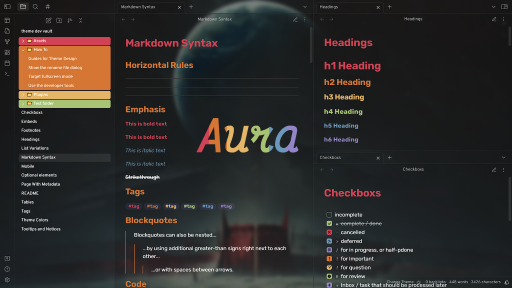
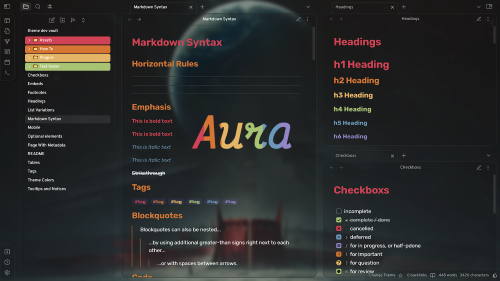
v1.5.0 - Added Alternate Layout and Customized the screenshots

diff --git a/theme.css b/theme.css
@@ -46,27 +46,20 @@ settings:
             label: Purple
             value: color-purple
    - 
-      id: background-primary
+      id: bg-primary
       title: Primary Background
       type: variable-color
       opacity: false
-      format: hex
-      alt-format:
-         -
-            id: accent-rgb
-            format: rgb
-      default: '#121212'
+      format: rgb-values
+      default: 'rgb(18, 18, 18)'
    - 
-      id: background-secondary
+      id: bg-secondary
       title: Secondary Background
       type: variable-color
       opacity: false
-      format: hex
-      alt-format:
-         -
-            id: accent-rgb
-            format: rgb
-      default: '#0f0f10'
+      format: rgb-values
+      default: 'rgb(15, 15, 16)'
+   - 
 
    - 
       id: aura-text
@@ -168,6 +161,71 @@ settings:
       max: 1
       step: 0.05
       default: 0.7
+   - 
+      id: aura-layout-heading
+      title: Layout
+      type: heading
+      level: 4
+      collapsed: true
+   - 
+      id: aura-layout-select
+      title: Layout Style
+      type: class-select
+      allowEmpty: false
+      default: aura-default-layout
+      options:
+         -
+            label: Default
+            value: aura-default-layout
+         -
+            label: Cards
+            value: aura-card-layout
+   - 
+      id: aura-disable-borders
+      title: Disable borders
+      type: class-toggle
+   -
+      id: tab-outline-color
+      title: Custom borders Color
+      type: variable-themed-color
+      opacity: true
+      format: hex
+      default-light: '#'
+      default-dark: '#'
+   - 
+      id: aura-card-radius
+      title: Card radius
+      description: Size unit is px
+      type: variable-number
+      default: 16
+      format: px
+   - 
+      id: aura-card-layout-padding
+      title: Card padding
+      description: Size unit is px
+      type: variable-number
+      default: 10
+      format: px
+   - 
+      id: aura-card-header-left-padding
+      title: Tab left padding
+      description: Size unit is px
+      type: variable-number
+      default: 20
+      format: px
+   - 
+      id: aura-card-shadows
+      title: Enable shadows for cards
+      type: class-toggle
+   - 
+      id: aura-card-layout-actions
+      title: Enable card format for left ribbon
+      type: class-toggle
+   - 
+      id: aura-card-layout-fileexplorer
+      title: Enable card format for file explorer
+      default: true
+      type: class-toggle
    - 
       id: aura-sidebar
       title: Sidebar
@@ -1186,4 +1244,227 @@ body {
 
 .aura-workspace-background .suggestion-container {
 	--background-primary: rgba(var(--bg-primary), 0.922);
+}
+
+/* 
+==============================================================================
+========================= CARD LAYOUT ==============================
+==============================================================================
+*/
+.horizontal-main-container,
+.aura-card-layout .mod-left-split,
+.aura-card-layout .mod-left-split .workspace-tabs .workspace-leaf,
+.aura-card-layout .mod-right-split .workspace-tabs .workspace-leaf,
+.aura-card-layout .mod-root .workspace-tabs .workspace-leaf,
+.aura-card-layout .mod-vertical,
+.aura-card-layout .mod-vertical .workspace-tab-container,
+.aura-card-layout .mod-vertical .workspace-tabs,
+.aura-card-layout
+	.workspace-fake-target-overlay:not(.is-in-sidebar)
+	.workspace-tabs
+	.workspace-leaf,
+.aura-card-layout .workspace-split.mod-vertical,
+.workspace {
+	background-color: var(--tab-container-background);
+}
+
+.workspace-split:not(.mod-root) .graph-controls,
+.workspace-split:not(.mod-root) .graph-controls.is-close,
+.workspace-split:not(.mod-root) .graph-controls:not(.is-close) {
+	background-color: rgb(var(--exterior));
+}
+
+.aura-card-layout .workspace-split:not(.mod-root) .graph-controls,
+.aura-card-layout .workspace-split:not(.mod-root) .graph-controls.is-close,
+.aura-card-layout
+	.workspace-split:not(.mod-root)
+	.graph-controls:not(.is-close),
+.workspace-leaf .graph-controls,
+.workspace-leaf .graph-controls.is-close,
+.workspace-leaf .graph-controls:not(.is-close) {
+	background-color: rgb(var(--side));
+}
+
+body {
+	--card-background-color: rgb(var(--exterior));
+	--card-foreground-color: var(--background-primary);
+}
+
+.aura-card-layout .sidebar-toggle-button,
+.aura-card-layout .workspace-tabs.mod-top,
+body.aura-card-layout {
+	--tab-container-background: var(--card-background-color);
+	--file-header-border: var(--border-width) dotted
+		var(--background-modifier-border);
+}
+
+body.is-focused.aura-card-layout,
+body.is-focused.aura-card-layout .sidebar-toggle-button,
+body.is-focused.aura-card-layout .workspace-tabs.mod-top {
+	--tab-container-background: var(--card-background-color);
+}
+
+.aura-card-layout .mod-left-split .workspace-tab-header-container,
+.aura-card-layout .workspace-tab-header-container {
+	border-bottom: none;
+}
+
+.aura-card-layout .workspace-ribbon.mod-left {
+	padding: 0;
+	background-color: var(--tab-container-background);
+	border: none;
+}
+
+.aura-card-layout-actions.aura-card-layout .workspace-ribbon.mod-left {
+	margin-right: var(--aura-card-layout-padding, 10px);
+}
+
+.aura-card-layout .workspace-ribbon.mod-left:before {
+	border-bottom: none;
+	background-color: var(--tab-container-background) !important;
+}
+
+.aura-card-layout .side-dock-actions,
+.aura-card-layout .side-dock-settings {
+	padding: var(--ribbon-padding);
+}
+
+.aura-card-layout-actions.aura-card-layout .side-dock-actions {
+	border-radius: 0 var(--aura-card-radius, var(--radius-xl))
+		var(--aura-card-radius, var(--radius-xl)) 0;
+	border: 1px solid var(--tab-outline-color);
+	background-color: var(--card-foreground-color);
+	margin-top: 2px;
+}
+
+.aura-card-layout-actions.aura-card-layout .side-dock-settings {
+	border-radius: 0 var(--aura-card-radius, var(--radius-xl)) 0 0;
+	border: 1px solid var(--tab-outline-color);
+	background-color: var(--card-foreground-color);
+}
+
+.aura-card-layout .workspace-ribbon.mod-left {
+	margin-top: calc(var(--header-height) - 1px) !important;
+}
+
+.aura-card-layout .mod-vertical .workspace-tab-header-container {
+	padding-left: var(--aura-card-header-left-padding, 20px);
+}
+
+.aura-card-layout .mod-vertical .workspace-tab-header-container-inner {
+	margin: 6px -5px calc(var(--tab-outline-width) * -1);
+	z-index: 1;
+}
+
+.aura-card-layout .mod-vertical .workspace-tabs {
+	padding-left: var(--aura-card-layout-padding, 10px);
+	padding-right: var(--aura-card-layout-padding, 10px);
+}
+
+.aura-card-layout .mod-left-split .workspace-tab-container,
+.aura-card-layout .mod-right-split .workspace-tab-container {
+	padding-left: var(--aura-card-layout-padding, 10px);
+	padding-right: var(--aura-card-layout-padding, 10px);
+	background-color: var(--tab-container-background);
+}
+
+.aura-card-layout
+	.workspace-split.mod-horizontal
+	> *
+	> .workspace-leaf-resize-handle,
+.aura-card-layout
+	.workspace-split.mod-left-split
+	> .workspace-leaf-resize-handle,
+.aura-card-layout
+	.workspace-split.mod-right-split
+	> .workspace-leaf-resize-handle {
+	border: 2px solid transparent;
+}
+
+.aura-card-layout .workspace-split .workspace-leaf-content {
+	border-radius: var(--aura-card-radius, var(--radius-xl));
+	background-color: var(--card-foreground-color);
+	border: 1px solid var(--tab-outline-color);
+	margin-bottom: var(--aura-card-layout-padding, 10px);
+}
+
+.aura-card-layout.aura-card-shadows .side-dock-actions,
+.aura-card-layout.aura-card-shadows .workspace-split .workspace-leaf-content,
+.aura-card-layout.aura-card-shadows.aura-card-layout-fileexplorer
+	.workspace-split
+	.workspace-leaf-content[data-type="file-explorer"] {
+	box-shadow: 0 3px 4px 0 rgba(0, 0, 0, 0.05);
+}
+
+.aura-card-layout
+	.workspace-split
+	.workspace-leaf-content[data-type="file-explorer"] {
+	background-color: var(--tab-container-background);
+	box-shadow: none;
+	border-width: 0;
+}
+
+.aura-card-layout.aura-card-layout-fileexplorer
+	.workspace-split
+	.workspace-leaf-content[data-type="file-explorer"] {
+	background-color: var(--card-foreground-color);
+	border-width: 1px;
+}
+
+.aura-card-layout .workspace-split .mod-stacked .workspace-leaf-content {
+	border-radius: 0;
+	border: none;
+	margin-bottom: 0;
+	border-left: none;
+}
+
+.aura-card-layout .workspace-split.mod-horizontal > * {
+	width: unset;
+}
+
+.aura-card-layout .mod-stacked .workspace-tab-header {
+	border-style: solid;
+	border-radius: var(--aura-card-radius, var(--radius-xl)) 0 0
+		var(--aura-card-radius, var(--radius-xl)) !important;
+	border-width: var(--tab-outline-width);
+	border-color: var(--tab-outline-color);
+	border-right: var(--tab-outline-width) dashed var(--tab-outline-color);
+}
+
+.aura-card-layout .mod-stacked .workspace-leaf {
+	border-left-width: 0;
+	border-top-width: var(--tab-outline-width);
+	border-bottom-width: var(--tab-outline-width);
+	border-style: solid;
+	border-color: var(--tab-outline-color);
+	border-radius: 0 var(--aura-card-radius, var(--radius-xl))
+		var(--aura-card-radius, var(--radius-xl)) 0;
+}
+
+.aura-card-layout .mod-stacked .workspace-tab-container {
+	padding-bottom: var(--aura-card-layout-padding, 10px);
+}
+
+.aura-card-layout .mod-top .workspace-leaf-resize-handle {
+	border-color: transparent;
+}
+
+body.aura-disable-borders,
+body.aura-disable-borders.aura-workspace-background-image-toggle {
+	--divider-color: transparent;
+}
+
+.aura-card-layout .workspace-drop-overlay:before {
+	width: calc(100% - 6px - var(--aura-card-layout-padding, 0) * 2);
+	height: calc(100% - 6px - var(--aura-card-layout-padding, 0) * 2);
+	margin: auto;
+}
+
+.aura-card-layout
+	.workspace
+	.mod-root
+	.workspace-tabs.mod-stacked
+	.workspace-tab-container
+	.workspace-leaf {
+	background-color: var(--background-primary);
 }

diff --git a/README.md b/README.md
@@ -1,7 +1,5 @@
 # Aura
 
-Aura is a minimal theme.
-
 ![](assets/screenshot.png)
 
 ## Installation
@@ -15,21 +13,31 @@ To install the theme
 
 ## Features
 
--   Custom **checkboxes**
+### Workspace Background
 
-    ![](assets/checkboxes.png)
+Customize your workspace with custom background images
 
--   Rainbow Tags
+<img src="assets/workspace-background.png" style="border-radius: 10px"/>
 
-    ![](assets/tags.png)
+Alternate Layout
 
--   Rainbow Folders
+Make your workspace more rounded
 
-    ![](assets/rainbow-folders.png)
+<img src="assets/alternate-layout.png" style="border-radius: 10px"/>
+
+### Rainbow Folders
+
+Make your folders look awesome
+
+<img src="assets/rainbow-folders.png" style="border-radius: 10px; width: 400px"/>
+
+### Custom **checkboxes**
+
+Unveal the true power of checkboxes
+
+<img src="assets/checkboxes.png" style="border-radius: 10px; width: 400px"/>
 
 ## Credits
 
--   Wasp theme by [Santi Younger](https://github.com/santiyounger)
--   Sanctum by [jdanielmourao](https://github.com/jdanielmourao)
 -   Callouts & Colored Folders by [Anubis](https://github.com/AnubisNekhet)
--   Workspace background by [Farouk](http://github.com/faroukx)
+-   Workspace background and card layout by [Farouk](http://github.com/faroukx)
